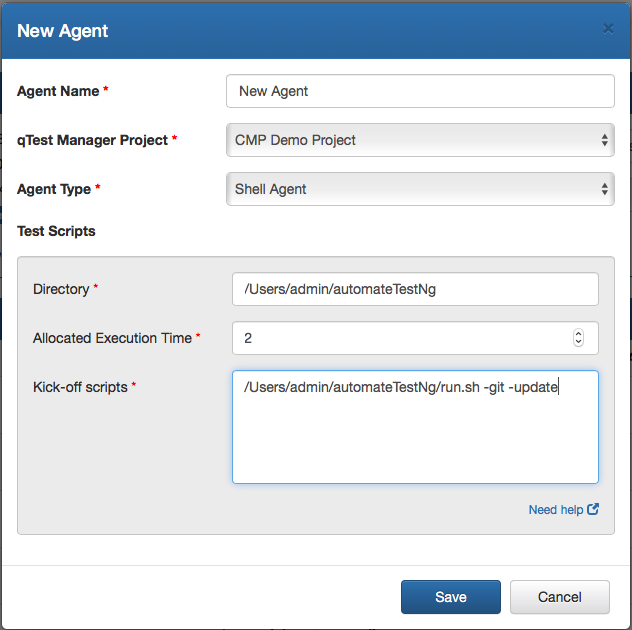
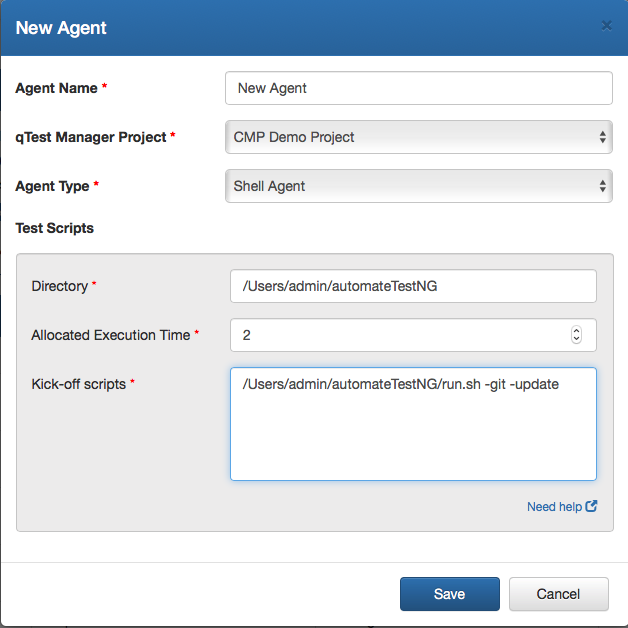
Final edits to README

diff --git a/AutomationHostExamples/automateJunit/README.md b/AutomationHostExamples/automateJunit/README.md
@@ -36,17 +36,17 @@ Enter the following command to get Apache Maven
 
  `pip --version`
 
+ Note: pip3 will work as well. Try `pip3 --version`
+
 2. If pip is not installed, run the following command to install pip:
 
  `python -m -ensurepip --default-pip`
 
 More information about downloading pip can be found at [https://packaging.python.org/tutorials/installing-packages/](https://packaging.python.org/tutorials/installing-packages/)
 
-3. After you have ensured pip is installed, run the following commands individually :
+3. After you have ensured pip is installed, run the following commands individually:
 
 `pip install requests`
-
-`pip install urllib3`
 
 `pip install beautifulsoup4`
 
@@ -54,14 +54,16 @@ More information about downloading pip can be found at [https://packaging.python
 
 `pip install pybase64`
 
-These commands will install the necessary modules required to run the python scripts. The modules are used to send requests to the API, read json configuration files, parse xml documents, and upload files to qTest.
+Note: If using pip3 run commands with pip3 instead e.g. `pip3 install requests`
+
+These commands will install the necessary modules required to run the python scripts. The modules are used to send requests to the API, parse xml documents, and upload files to qTest.
 
 
 ## Update Configuration File:
 
 **git\_url:** The shell script uses the url to clone a repository and send pull requests everytime it runs if -git input is used
 
-**local\_repository:** The folder containing the test cases. The shell script will use this to know where to run the maven build
+**local\_repository:** The folder containing the test cases. The shell script will use this to know where to run the maven build. Make sure to place this folder in the same directory as the the python and shell scripts.
 
 **qtest\_api\_token:** The token used to authorize the connection to qTest Manager
 
@@ -103,17 +105,15 @@ For this example we will be pulling a JUnit Sample Test from QASymphony GitHub&#
 
 **-update** Updates an existing test cycle or create a new test cycle if first test run
 
-(To create a new test cycle every time script is run do not use this argument)
-
-To run the shell agent without using GitHub or without updating the existing test cycle do not include this parameters in the kick off scripts section
+To run the shell agent without using GitHub or without updating the existing test cycle do not include these parameters in the kick off scripts section. An example of not using -git is used in the JMeter Automation example.
 
 
 
-In this example we will be pulling tests from GitHub and updating our test cycle, so the arguments are included and shown below.
+In this example we will be pulling tests from GitHub and updating our test cycle, so the -git and -update arguments are included and shown below.
 
 
 
-## For Mac Users (Use run.sh):**
+## For Mac Users (Use run.sh):
 
  ![](../images/junitmachost.png)
 

diff --git a/AutomationHostExamples/automateRobot/README.md b/AutomationHostExamples/automateRobot/README.md
@@ -12,7 +12,7 @@ This example illustrates how to use the Shell Script Automation Host Feature to 
 
 3) Install Robot Framework from [https://pypi.org/project/robotframework/](https://pypi.org/project/robotframework/)
 
-### Tips for Set Up:**
+### Tips for Set Up:
 
 Windows:
 
@@ -36,29 +36,31 @@ Enter the following command to get Robot Framework
 
  `pip --version`
 
+ Note: pip3 will work as well. Try `pip3 --version`
+
 2. If pip is not installed, run the following command to install pip:
 
  `python -m -ensurepip --default-pip`
 
 More information about downloading pip can be found at [https://packaging.python.org/tutorials/installing-packages/](https://packaging.python.org/tutorials/installing-packages/)
 
-3. After you have ensured pip is installed, run the following commands individually :
+3. After you have ensured pip is installed, run the following commands individually:
 
 `pip install requests`
-
-`pip install urllib3`
 
 `pip install beautifulsoup4`
 
 `pip install lxml`
 
-These commands will install the necessary modules required to run the python scripts. The modules are used to send requests to the API, read json configuration files and parse xml documents.
+Note: If using pip3 run commands with pip3 instead e.g. `pip3 install requests`
+
+These commands will install the necessary modules required to run the python scripts. The modules are used to send requests to the API, and parse xml documents.
 
 ## Update Configuration File:
 
 **git\_url:** The shell script uses the url to clone a repository and send pull requests on use
 
-**local\_repository:** The folder containing the test cases. The shell script will use this to know where to run the maven build
+**local\_repository:** The folder containing the test cases. The shell script will use this to know where to run the maven build. Make sure to place this folder in the same directory as the the python and shell scripts.
 
 **qtest\_api\_token:** The token used to authorize the connection to qTest Manager
 
@@ -100,9 +102,7 @@ For this example we will be pulling robot tests from BitBucket, which has a robo
 
 **-update** Updates an existing test cycle or create a new test cycle if first test run
 
-(To create a new test cycle every time script is run do not use this argument)
-
-To run the shell agent without using GitHub or without updating the existing test cycle do not include this parameters in the kick off scripts section
+To run the shell agent without using GitHub or without updating the existing test cycle do not include this parameters in the kick off scripts section. An example of not using -git is used in the JMeter Automation example.
 
 
 

diff --git a/AutomationHostExamples/automateJMeter/README.md b/AutomationHostExamples/automateJMeter/README.md
@@ -36,6 +36,8 @@ Enter the following command to get Apache JMeter
 
  `pip --version`
 
+ Note: pip3 will work as well. Try `pip3 --version`
+
 2. If pip is not installed, run the following command to install pip:
 
  `python -m -ensurepip --default-pip`
@@ -46,13 +48,13 @@ More information about downloading pip can be found at [https://packaging.python
 
 `pip install requests`
 
-`pip install urllib3`
-
 `pip install xml.etree.ElementTree`
 
 `pip install beautifulsoup4`
 
 `pip install lxml`
+
+Note: If using pip3 run commands with pip3 instead e.g. `pip3 install requests`
 
 These commands will install the necessary modules required to run the python scripts. The modules are used to send requests to the API, read json configuration files, parse xml documents, and upload files to qTest.
 
@@ -61,7 +63,7 @@ These commands will install the necessary modules required to run the python scr
 
 **git\_url:** The shell script uses the url to clone a repository and send pull requests everytime it runs if -git input is used
 
-**local\_repository:** The folder containing the .jmx file. The shell script will use this to know where to run the tests
+**local\_repository:** The folder containing the .jmx file. The shell script will use this to know where to run the tests. Make sure to place this folder in the same directory as the the python and shell scripts.
 
 **qtest\_api\_token:** The token used to authorize the connection to qTest Manager
 
@@ -102,8 +104,6 @@ For this example, we will not be using a GitHub sample instead the .jmx file wil
 **-git**    Uses GitHub to clone a test case repository and send pull requests every time shell script is run
 
 **-update** Updates an existing test cycle or create a new test cycle if first test run
-
-(To create a new test cycle every time script is run do not use this argument)
 
 To run the shell agent without using GitHub or without updating the existing test cycle do not include this parameters in the kick off scripts section
 

diff --git a/AutomationHostExamples/automateTestNG/README.md b/AutomationHostExamples/automateTestNG/README.md
@@ -1,4 +1,4 @@
-#TestNG with Maven Build Automation
+# TestNG with Maven Build Automation
 
 ## Overview:
 
@@ -30,11 +30,13 @@ Enter the following command to get Apache Maven
 
 `brew install maven`
 
-### From Terminal (Mac) or Command Prompt (Windows):**
+### From Terminal (Mac) or Command Prompt (Windows):
 
 1. Make sure pip was installed correctly with python on your machine by running the following command. It should output the pip version:
 
  `pip --version`
+
+ Note: pip3 will work as well. Try `pip3 --version`
 
 2. If pip is not installed, run the following command to install pip:
 
@@ -46,18 +48,18 @@ More information about downloading pip can be found at [https://packaging.python
 
 `pip install requests`
 
-`pip install urllib3`
-
 `pip install beautifulsoup4`
 
 `pip install lxml`
 
 `pip install pybase64`
 
+Note: If using pip3 run commands with pip3 instead e.g. `pip3 install requests`
+
 These commands will install the necessary modules required to run the python scripts. The modules are used to send requests to the API, read json configuration files, parse xml documents, and upload files to qTest.
 
 
-## Update Configuration File:**
+## Update Configuration File:
 
 **git\_url:** The shell script uses the url to clone a repository and send pull requests everytime it runs if -git input is used
 
@@ -105,9 +107,7 @@ For this example we will be pulling a TestNg Sample Test from QASymphony GitHub&
 
 **-update** Updates an existing test cycle or create a new test cycle if first test run
 
-(To create a new test cycle every time script is run do not use this argument)
-
-To run the shell agent without using GitHub or without updating the existing test cycle do not include this parameters in the kick off scripts section
+To run the shell agent without using GitHub or without updating the existing test cycle do not include this parameters in the kick off scripts section. An example of not using -git is used in the JMeter Automation example.
 
 
 
